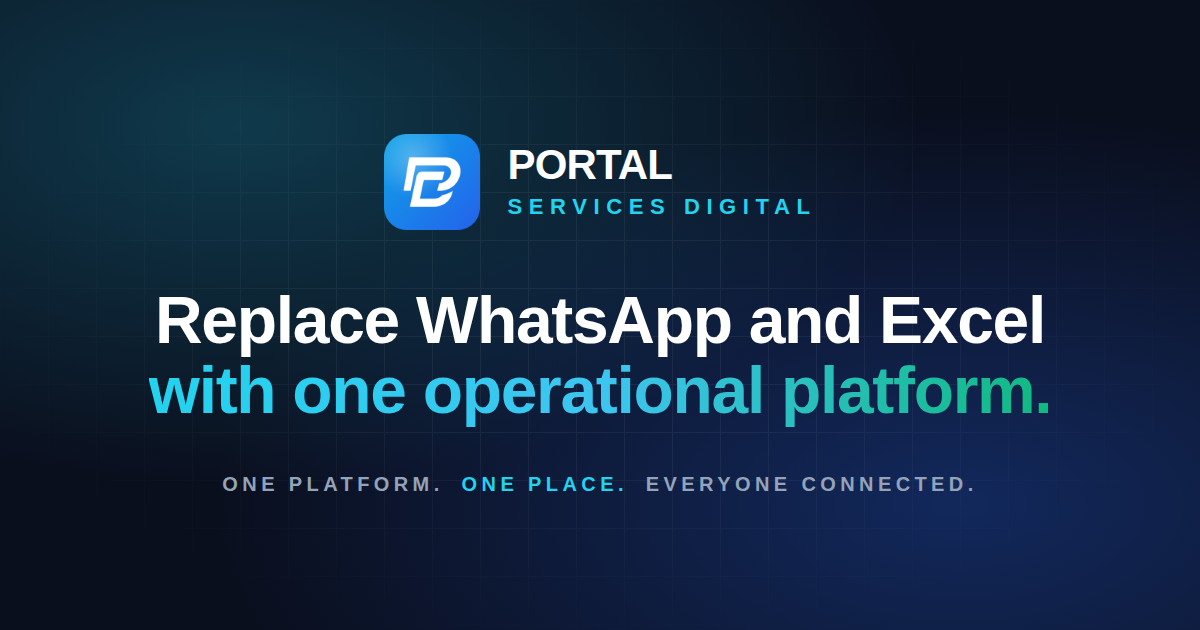
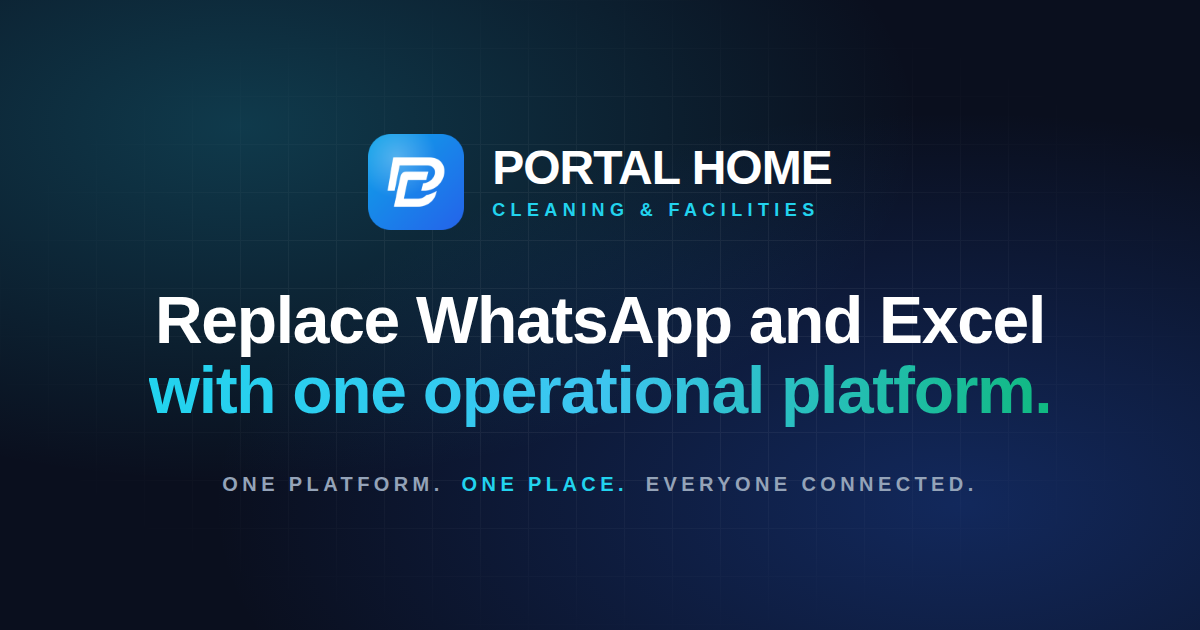
brand: rebrand everything Portal Services UK/Digital → Portal Home
User opened the live site and saw three brand names fighting in the
same view:
- icon+wordmark PNG saying "PORTAL SERVICES DIGITAL"
- pill above the login card saying "PORTAL HOME CLEANER"
- footer saying "© 2026 PORTAL SERVICES UK"

The 404 rebrand from a697eac was the first step; this finishes the
job. "Portal Home" is the canonical brand from here.

What changed:

1. **Logo PNG regenerated** with "PORTAL HOME" wordmark + "CLEANING
   & FACILITIES" tagline. Rebuilt at 2x density via Playwright, drops
   into public/portal-home-logo-v2.png (the main asset everything
   resolves through /api/logo) and the legacy /portal-home-logo.png
   path so anything still hard-coding the old filename also flips.

2. **OG image regenerated** at 1200×630 with the same wordmark, so
   WhatsApp / Twitter / Slack previews of the site URL no longer show
   the old brand. Dropped into app/opengraph-image.png.

3. **All 50 string references rebranded** across 24 files:
   "Portal Services UK"        → "Portal Home"
   "Portal Services Digital"   → "Portal Home"
   "Portal Home Cleaner"       → "Portal Home"
   (and the SHOUTY-CASE variants in psd.css, hqx.css, the footer
   © line, login pill labels, structured-data org name, PIN-share
   WhatsApp message templates, email subject lines in lib/email.ts,
   onboarding copy, marketing site privacy/terms/docs pages,
   client portal shell, HQ banners, etc.)

What I left alone:
- `portalservices.digital` (the actual domain — same domain, just
[…]

Changed region(s): [[0.3083, 0.2111, 0.7092, 0.3619]]

diff --git a/app/[locale]/terms/page.tsx b/app/[locale]/terms/page.tsx
@@ -4,9 +4,9 @@ import { Nav } from '@/components/Nav';
 import { Footer } from '@/components/Footer';
 
 export const metadata = {
-  title: 'Terms of Service — Portal Services Digital',
+  title: 'Terms of Service — Portal Home',
   description:
-    'The terms governing your use of Portal Services Digital and the operations platform.',
+    'The terms governing your use of Portal Home and the operations platform.',
 };
 
 export default async function TermsPage({
@@ -41,7 +41,7 @@ export default async function TermsPage({
         <div className="mx-auto max-w-3xl space-y-8 px-6 text-slate-300">
           <Section title="1. Agreement">
             <p>
-              By creating an account or using Portal Services Digital ("the
+              By creating an account or using Portal Home ("the
               Service"), you agree to these Terms. If you don't agree, don't use
               the Service.
             </p>
@@ -49,7 +49,7 @@ export default async function TermsPage({
 
           <Section title="2. The service">
             <p>
-              Portal Services Digital is an operations platform for cleaning,
+              Portal Home is an operations platform for cleaning,
               facilities and property-management teams. It includes a web
               dashboard for owners, a mobile-first app for operatives, GPS
               check-in, photo evidence, calendar synchronisation and billing.

diff --git a/components/Logo.tsx b/components/Logo.tsx
@@ -42,7 +42,7 @@ export function Logo({
       // eslint-disable-next-line @next/next/no-img-element
       <img
         src={LOGO_ICON_URL}
-        alt="Portal Services Digital"
+        alt="Portal Home"
         className={`block w-auto ${cfg.h} ${className}`}
       />
     );
@@ -53,7 +53,7 @@ export function Logo({
       // eslint-disable-next-line @next/next/no-img-element
       <img
         src={LOGO_FULL_URL}
-        alt="Portal Services Digital — One platform. One place. Everyone connected."
+        alt="Portal Home — One platform. One place. Everyone connected."
         className={`block w-auto ${cfg.h} ${className}`}
       />
     );
@@ -64,7 +64,7 @@ export function Logo({
       // eslint-disable-next-line @next/next/no-img-element
       <img
         src={LOGO_DARK_URL}
-        alt="Portal Services Digital"
+        alt="Portal Home"
         className={`block w-auto ${cfg.h} ${className}`}
       />
     );
@@ -77,7 +77,7 @@ export function Logo({
       {/* eslint-disable-next-line @next/next/no-img-element */}
       <img
         src={LOGO_DARK_URL}
-        alt="Portal Services Digital"
+        alt="Portal Home"
         className={`block w-auto ${cfg.h}`}
       />
     </span>

diff --git a/components/hq/ContractsEditor.tsx b/components/hq/ContractsEditor.tsx
@@ -23,12 +23,12 @@ const area = 'mt-1 w-full rounded-xl bg-white px-3 py-2 text-sm ring-1 ring-inse
 
 function buildBody(c: Omit<Contract, 'id' | 'body' | 'createdAt'>): string {
   return `CONTRATO DE PRESTACIÓN DE SERVICIOS
-PORTAL SERVICES DIGITAL
+PORTAL HOME
 
-Entre Portal Services Digital ("el Proveedor") y ${c.client || '[Cliente]'} ("el Cliente"), con fecha de inicio ${c.startDate || '[fecha]'}, se acuerda lo siguiente:
+Entre Portal Home ("el Proveedor") y ${c.client || '[Cliente]'} ("el Cliente"), con fecha de inicio ${c.startDate || '[fecha]'}, se acuerda lo siguiente:
 
 1. OBJETO
-El Proveedor concede al Cliente acceso a la plataforma Portal Services Digital bajo el plan ${c.plan || '[plan]'}, incluyendo los portales y funciones correspondientes a dicho plan.
+El Proveedor concede al Cliente acceso a la plataforma Portal Home bajo el plan ${c.plan || '[plan]'}, incluyendo los portales y funciones correspondientes a dicho plan.
 
 2. PRECIO Y FACTURACIÓN
 El Cliente abonará ${c.value || '[importe]'} con periodicidad mensual. La facturación se emitirá de forma digital tras cada periodo.
@@ -49,7 +49,7 @@ Y en prueba de conformidad, ambas partes firman el presente contrato.
 
 
 _____________________________            _____________________________
-Portal Services Digital                  ${c.client || '[Cliente]'}
+Portal Home                  ${c.client || '[Cliente]'}
 `;
 }
 

diff --git a/app/[locale]/privacy/page.tsx b/app/[locale]/privacy/page.tsx
@@ -4,8 +4,8 @@ import { Nav } from '@/components/Nav';
 import { Footer } from '@/components/Footer';
 
 export const metadata = {
-  title: 'Privacy Policy — Portal Services Digital',
-  description: 'How Portal Services Digital collects, uses and protects your data.',
+  title: 'Privacy Policy — Portal Home',
+  description: 'How Portal Home collects, uses and protects your data.',
 };
 
 export default async function PrivacyPage({
@@ -39,7 +39,7 @@ export default async function PrivacyPage({
         <div className="mx-auto max-w-3xl space-y-8 px-6 text-slate-300">
           <Section title="1. Who we are">
             <p>
-              Portal Services Digital ("we", "us", "our") provides an operational
+              Portal Home ("we", "us", "our") provides an operational
               platform for cleaning, facilities and property-management teams,
               accessible at <strong>portalservices.digital</strong> and{' '}
               <strong>hq.portalservices.digital</strong>. For privacy enquiries

diff --git a/app/c/[slug]/page.tsx b/app/c/[slug]/page.tsx
@@ -79,9 +79,9 @@ export async function generateMetadata({
     .eq('is_public_profile', true)
     .maybeSingle();
 
-  if (!data) return { title: 'Cleaning service · Portal Services Digital' };
+  if (!data) return { title: 'Cleaning service · Portal Home' };
   return {
-    title: `${data.business_name ?? 'Cleaning service'} · Portal Services Digital`,
+    title: `${data.business_name ?? 'Cleaning service'} · Portal Home`,
     description: data.tagline ?? undefined,
   };
 }
@@ -424,7 +424,7 @@ export default async function PublicBusinessPage({
       </section>
 
       <footer className="mx-auto max-w-3xl px-6 pb-6 text-center text-[10px] text-text-3">
-        Powered by Portal Services Digital
+        Powered by Portal Home
       </footer>
     </main>
   );

diff --git a/app/psd.css b/app/psd.css
@@ -1,10 +1,10 @@
-/* Portal Services Digital — mockup design system, scoped under .psd */
+/* Portal Home — mockup design system, scoped under .psd */
 /* ============================================================
-   Portal Services Digital — design system
+   Portal Home — design system
    ============================================================ */
 
 .psd {
-  /* Palette — Portal Services Digital brand */
+  /* Palette — Portal Home brand */
   --brand-navy:  #0F172A;  /* Azul Oscuro · Confianza */
   --brand-blue:  #2563EB;  /* Azul Eléctrico · Innovación */
   --brand-cyan:  #06B6D4;  /* Cian Brillante · Tiempo real */

diff --git a/app/layout.tsx b/app/layout.tsx
@@ -38,7 +38,7 @@ export const metadata: Metadata = {
     'Airbnb cleaning management',
     'Portal Home',
   ],
-  authors: [{ name: 'Portal Services Digital' }],
+  authors: [{ name: 'Portal Home' }],
   openGraph: {
     title: 'Portal Home — La plataforma para tu empresa de limpieza',
     description:
@@ -90,7 +90,7 @@ const softwareLd = {
   },
   publisher: {
     '@type': 'Organization',
-    name: 'Portal Services Digital',
+    name: 'Portal Home',
     url: SITE_URL,
   },
 };

diff --git a/app/refer/[code]/page.tsx b/app/refer/[code]/page.tsx
@@ -37,7 +37,7 @@ export async function generateMetadata({
     .select('owner_id')
     .eq('referral_code', code)
     .maybeSingle();
-  if (!data) return { title: 'Invitación · Portal Services Digital' };
+  if (!data) return { title: 'Invitación · Portal Home' };
   const { data: profile } = await admin
     .from('owner_profiles')
     .select('business_name')
@@ -264,7 +264,7 @@ export default async function ReferralLanding({
             ))}
           </ul>
           <p className="mt-5 inline-flex w-full items-center justify-center gap-1 text-center text-[10px] text-text-3">
-            <Star className="h-3 w-3 text-amber-500" /> Con tecnología de Portal Services Digital
+            <Star className="h-3 w-3 text-amber-500" /> Con tecnología de Portal Home
           </p>
         </section>
       </div>

diff --git a/components/StructuredData.tsx b/components/StructuredData.tsx
@@ -21,7 +21,7 @@ export async function StructuredData({ locale }: { locale: string }) {
   const organization = {
     '@context': 'https://schema.org',
     '@type': 'Organization',
-    name: 'Portal Services Digital',
+    name: 'Portal Home',
     url: SITE_URL,
     logo: `${SITE_URL}/icon`,
     sameAs: [] as string[],
@@ -36,7 +36,7 @@ export async function StructuredData({ locale }: { locale: string }) {
   const softwareApplication = {
     '@context': 'https://schema.org',
     '@type': 'SoftwareApplication',
-    name: 'Portal Services Digital',
+    name: 'Portal Home',
     applicationCategory: 'BusinessApplication',
     operatingSystem: 'Web',
     description:

diff --git a/components/client/ClientShell.tsx b/components/client/ClientShell.tsx
@@ -7,7 +7,7 @@ type Tab = 'home' | 'messages' | 'reviews' | 'refer';
 
 /**
  * Mobile-first shell for the client portal. Uses the owner's white-label
- * logo if available; otherwise falls back to the Portal Services Digital
+ * logo if available; otherwise falls back to the Portal Home
  * brand. Light theme. Fixed bottom tab bar for the four primary views.
  */
 export function ClientShell({
@@ -71,7 +71,7 @@ export function ClientShell({
       <div className="mx-auto max-w-md px-4 pt-5">{children}</div>
 
       <footer className="mx-auto mt-8 max-w-md px-4 pb-4 text-center text-[10px] text-text-3">
-        Con tecnología de Portal Services Digital
+        Con tecnología de Portal Home
       </footer>
 
       {showTabs && token && activeTab ? (

diff --git a/components/psd/Nav.tsx b/components/psd/Nav.tsx
@@ -20,11 +20,11 @@ export function Nav({ logoUrl = LOGO_FULL_URL }: { logoUrl?: string }) {
     <header className={`nav ${scrolled ? 'scrolled' : ''}`}>
       <div className="container nav-inner">
         <div className="nav-left">
-          <a href="#" className="brand" aria-label="Portal Services Digital">
+          <a href="#" className="brand" aria-label="Portal Home">
             {/* eslint-disable-next-line @next/next/no-img-element */}
             <img
               src={logoUrl}
-              alt="Portal Services Digital"
+              alt="Portal Home"
               className="nav-logo"
               style={{ filter: 'saturate(1.25) contrast(1.18) brightness(0.82)' }}
             />

diff --git a/lib/email.ts b/lib/email.ts
@@ -2,7 +2,7 @@ import { createAdminClient } from '@/lib/supabase/admin';
 
 const RESEND_API_KEY = process.env.RESEND_API_KEY;
 const FROM_EMAIL =
-  process.env.RESEND_FROM_EMAIL ?? 'Portal Services Digital <[email redacted]>';
+  process.env.RESEND_FROM_EMAIL ?? 'Portal Home <[email redacted]>';
 const SITE_URL = process.env.NEXT_PUBLIC_SITE_URL ?? 'https://hq.portalservices.digital';
 
 async function sendEmail(opts: { to: string; subject: string; html: string }) {
@@ -90,7 +90,7 @@ export async function notifyOwnerOfCompletion(taskId: string) {
              style="display:inline-block;margin-top:22px;background:linear-gradient(135deg,#22d3ee,#2563eb);color:#fff;text-decoration:none;font-weight:500;font-size:14px;padding:10px 18px;border-radius:10px;">
             View task
           </a>
-          <p style="margin:28px 0 0;color:#475569;font-size:11px;">Portal Services Digital · You're receiving this because you own this property in your dashboard.</p>
+          <p style="margin:28px 0 0;color:#475569;font-size:11px;">Portal Home · You're receiving this because you own this property in your dashboard.</p>
         </div>
       </div>
     `;